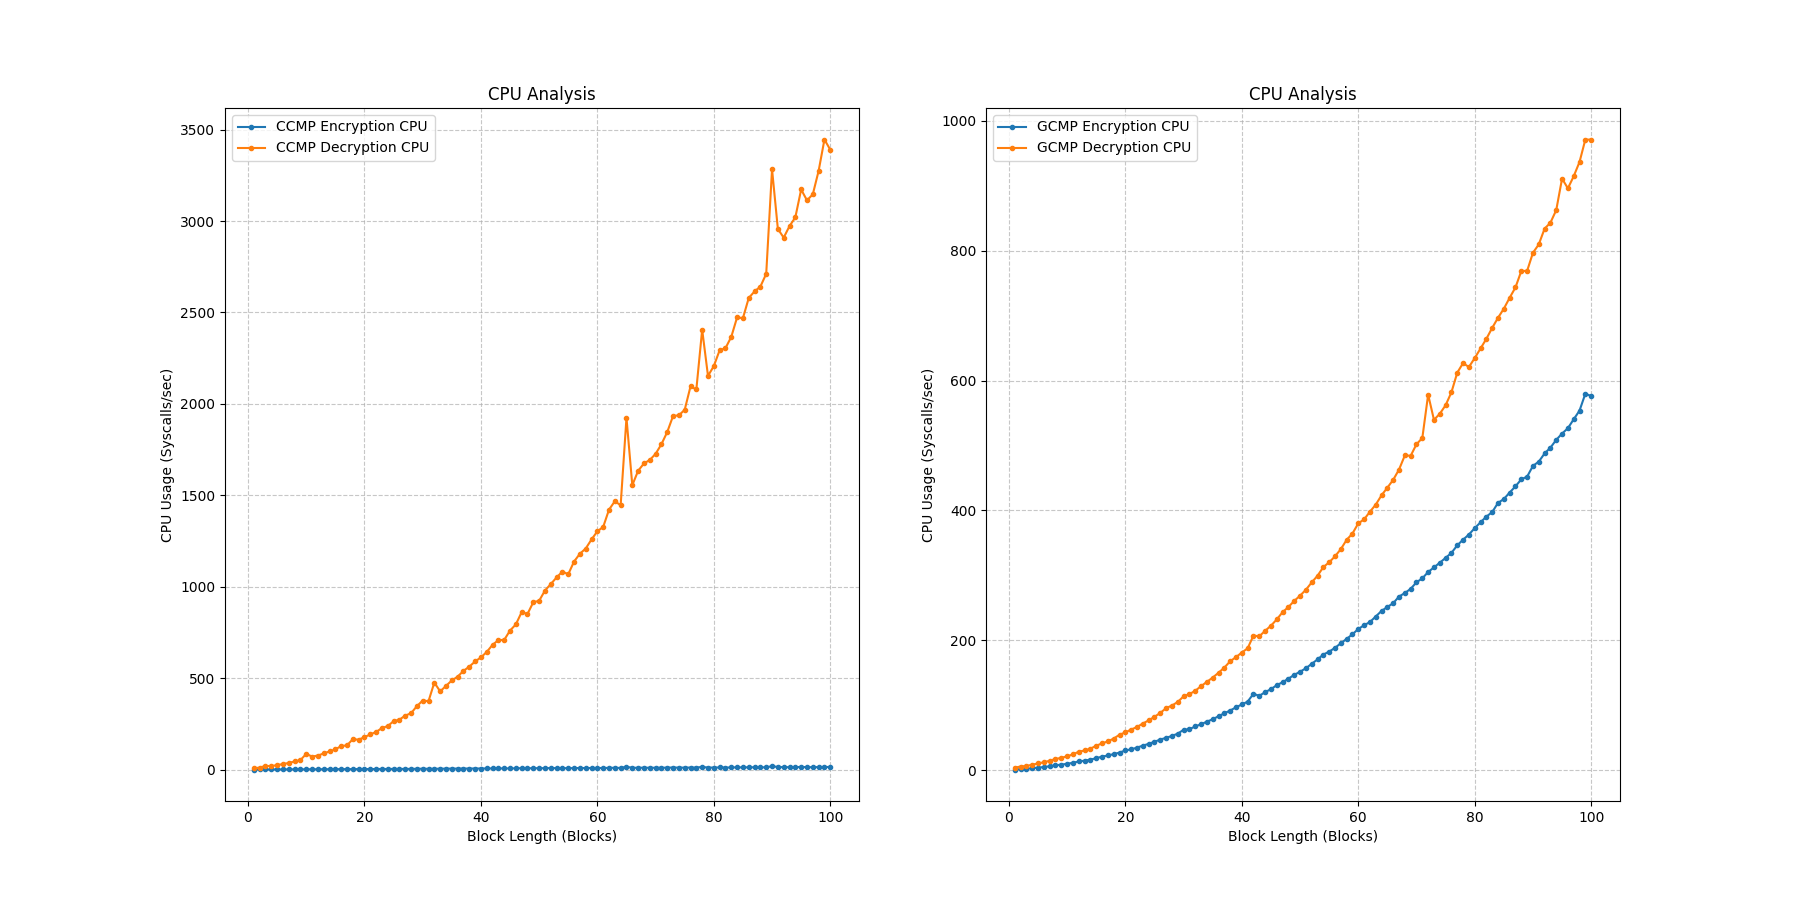
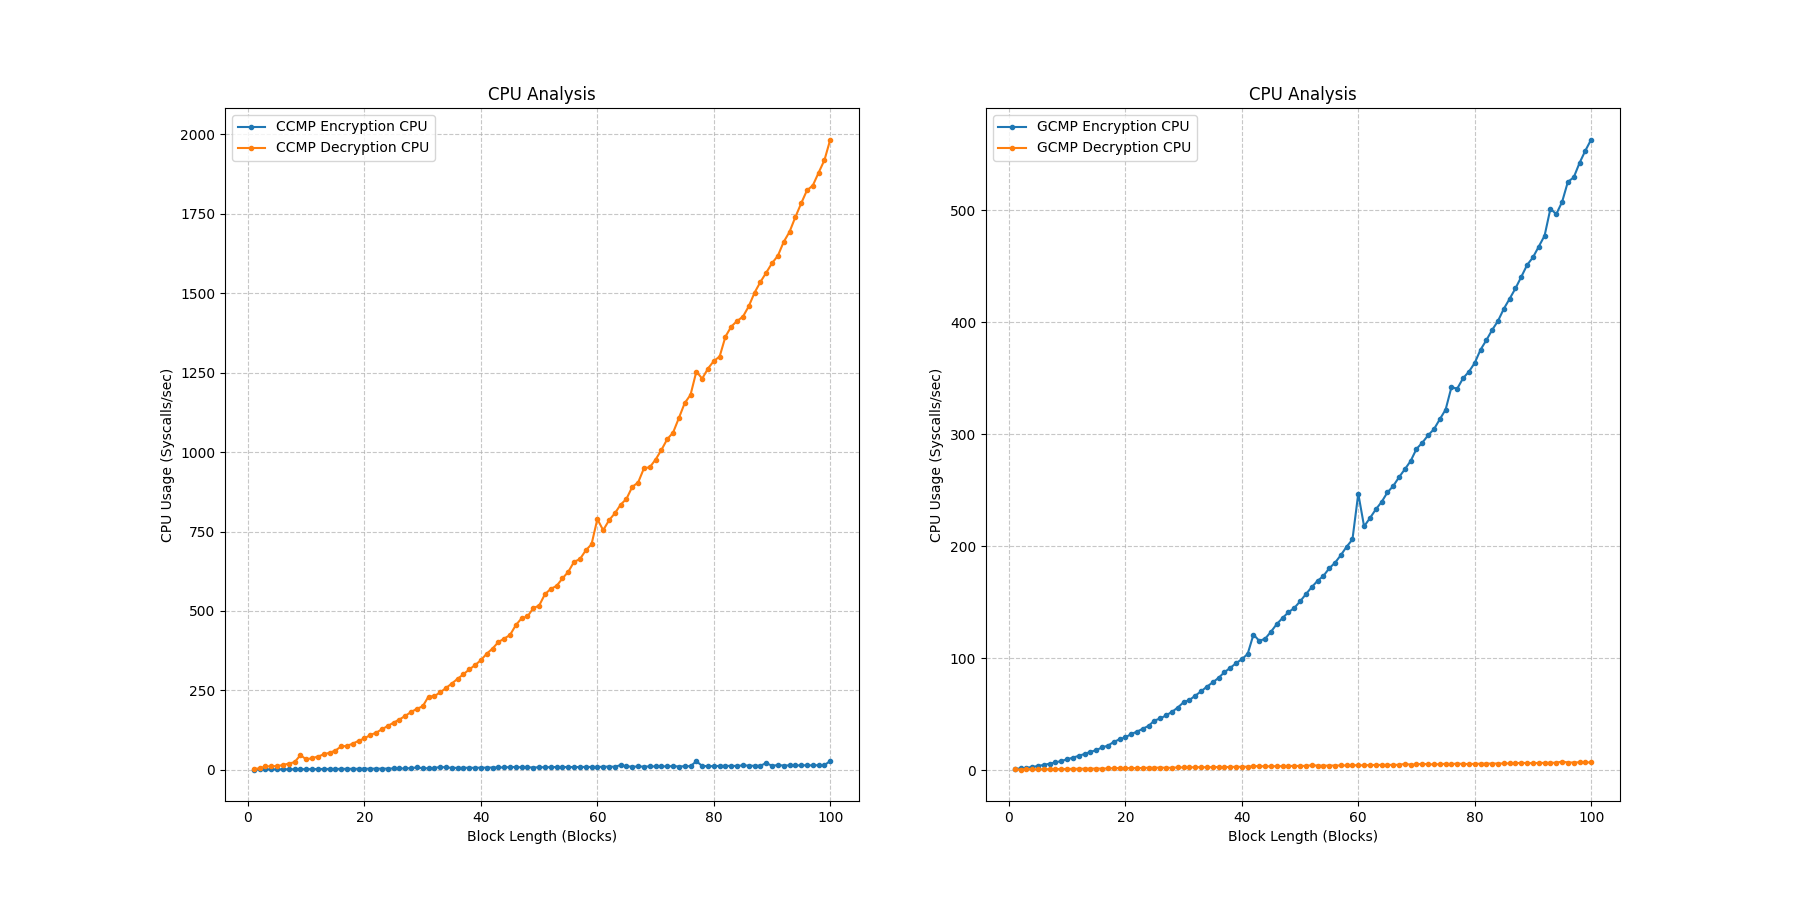
done somthing

diff --git a/main.py b/main.py
@@ -20,7 +20,8 @@ class LinkMode:
         f0 = open('output.log','w')
 
     def __init__(self, protocol, blocks):
-        self.pr = CodeAnalysis.Profile()
+        self.penc = CodeAnalysis.Profile()
+        self.pdec = CodeAnalysis.Profile()
         self.protocol = protocol
         self.frame_header = bytes(open("frame_header.txt", "r").read(), 'utf-8')
         self.plaintext = bytes(open("msg1.txt", "r").read(int(blocks)*16), 'utf-8')
@@ -43,13 +44,13 @@ class LinkMode:
                 self.ciphertext, self.smic = pyAES.AES(self.key, self.iv).encrypt_ccmp(self.frame_header, self.plaintext)
             elif self.protocol == "gcmp":
                 self.ciphertext, self.smic = pyAES.AES(self.key, self.iv).encrypt_gcmp(self.frame_header, self.plaintext)
-        self.pr.enable()
+        self.penc.enable()
         protocal_encrypt()
-        self.pr.disable()
+        self.penc.disable()
         self.entropy_ct = CodeAnalysis.entropy(self.ciphertext)
         self.entropy_mic = CodeAnalysis.entropy(self.smic)
-        self.encryption_time = CodeAnalysis.get_exectime(self.pr)
-        self.cpuE = CodeAnalysis.get_cpu(self.pr)
+        self.encryption_time = CodeAnalysis.get_exectime(self.penc)
+        self.cpuE = CodeAnalysis.get_cpu(self.penc)
         self.ramE = CodeAnalysis.get_ram(protocal_encrypt)
         # Console logging
         print(f"Cipher text: {str(self.ciphertext)}", file=self.f0)
@@ -67,11 +68,11 @@ class LinkMode:
                 self.plaintext, self.rmic = pyAES.AES(self.key, self.iv).decrypt_ccmp(self.frame_header, self.ciphertext)
             elif self.protocol == "gcmp":
                 self.plaintext, self.rmic = pyAES.AES(self.key, self.iv).decrypt_gcmp(self.frame_header, self.ciphertext)      
-        self.pr.enable()
+        self.pdec.enable()
         protocal_decrypt()
-        self.pr.disable()
-        self.decryption_time = CodeAnalysis.get_exectime(self.pr)
-        self.cpuD = CodeAnalysis.get_cpu(self.pr)
+        self.pdec.disable()
+        self.decryption_time = CodeAnalysis.get_exectime(self.pdec)
+        self.cpuD = CodeAnalysis.get_cpu(self.pdec)
         self.ramD = CodeAnalysis.get_ram(protocal_decrypt)
         # Console logging
         if self.rmic == self.smic:
@@ -138,7 +139,7 @@ def main():
             gcmp = LinkMode(protocol, i+1)
             gcmp.encrypt()
             gcmp.decrypt()
-            f1.write(f"{gcmp.entropy_mic},{gcmp.decryption_time},{gcmp.ramE},{gcmp.cpuE},{gcmp.encryption_time},{gcmp.ramD},{gcmp.cpuD}\n")
+            f1.write(f"{gcmp.entropy_mic},{gcmp.encryption_time},{gcmp.ramE},{gcmp.cpuE},{gcmp.decryption_time},{gcmp.ramD},{gcmp.cpuD}\n")
             del gcmp
         print("")
         print("[#] COMPILATION SUCCESSFUL: Check Results.csv and Results.log files for the output.")

diff --git a/tests.py b/tests.py
@@ -1,19 +1,21 @@
 import pyAES
 from pyCodeAanlysis import CodeAnalysis
 pr = CodeAnalysis.Profile()
-ps = CodeAnalysis.Profile()
 
-txt = b'Hello World'
-print(str(txt))
-print(len(txt))
+
+frame_header = bytes(open("frame_header.txt", "r").read(), 'utf-8')
+plaintext = bytes(open("msg1.txt", "r").read(int(100)*16), 'utf-8')
+key = bytes(open("key.txt", "r").read(), 'utf-8')
+iv = bytes(open("iv.txt", "r").read(), 'utf-8')
+
 pr.enable()
-pad = pyAES.pad(txt)
+ciphertext, smic = pyAES.AES(key, iv).encrypt_gcmp(frame_header, plaintext)
 pr.disable()
-print(str(pad))
-print(len(pad))
-ps.enable()
-txt_new = pyAES.unpad(pad)
-ps.disable()
-print(str(txt_new))
+
 print(CodeAnalysis.get_exectime(pr)*1000)
-print(CodeAnalysis.get_exectime(ps)*1000)
+
+pr.enable()
+plaintext, rmic = pyAES.AES(key, iv).decrypt_gcmp(frame_header, ciphertext)
+pr.disable()
+
+print(CodeAnalysis.get_exectime(pr)*1000)
